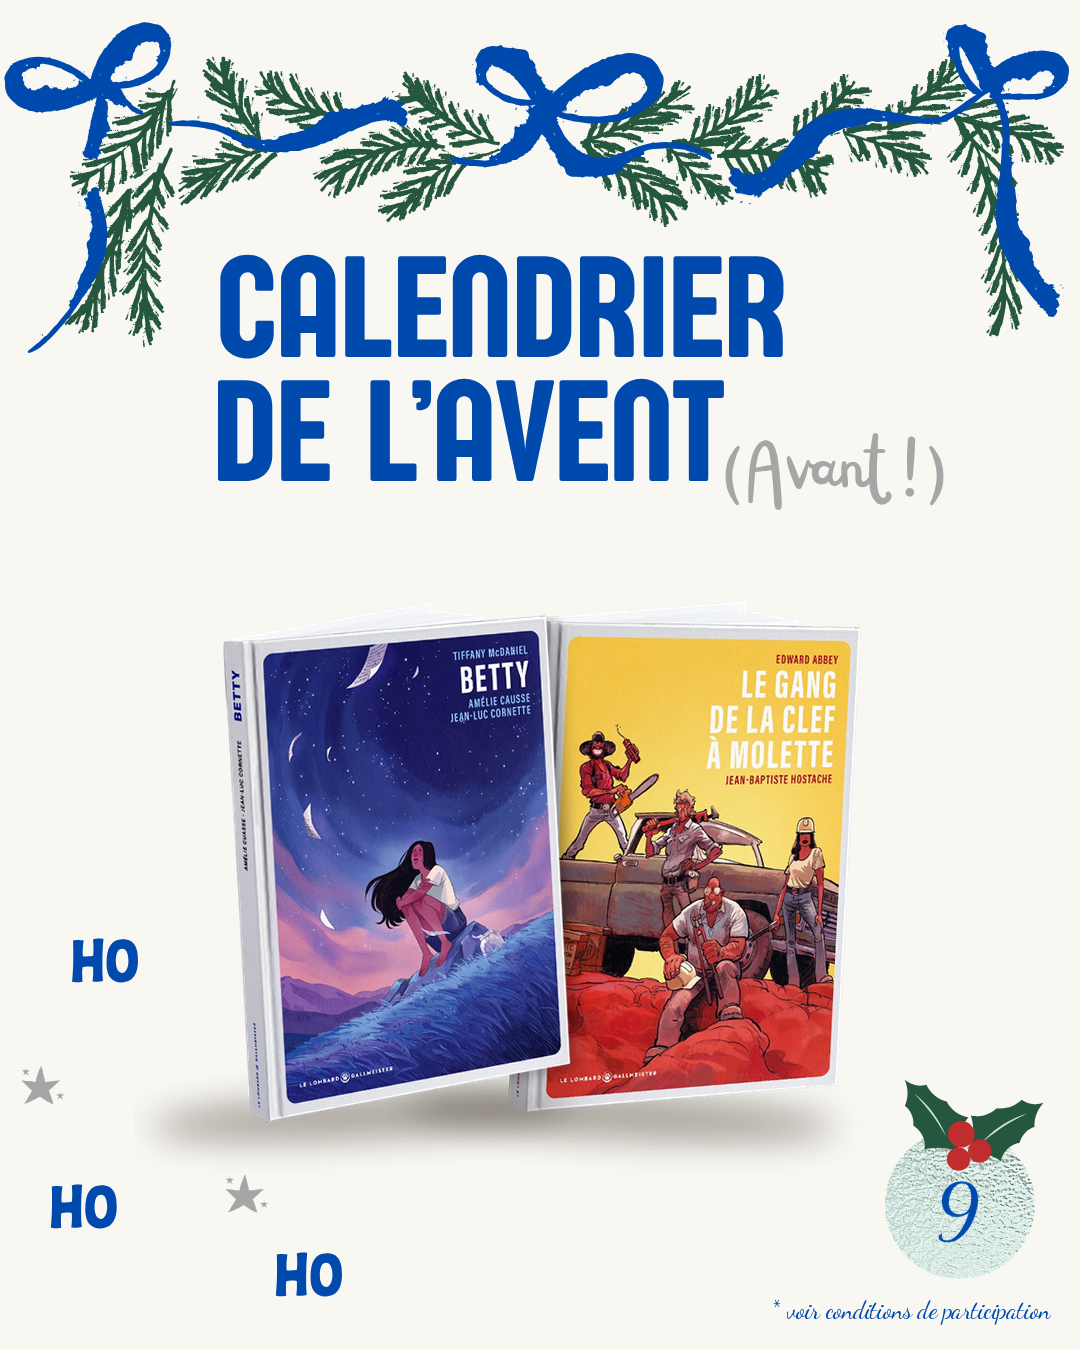
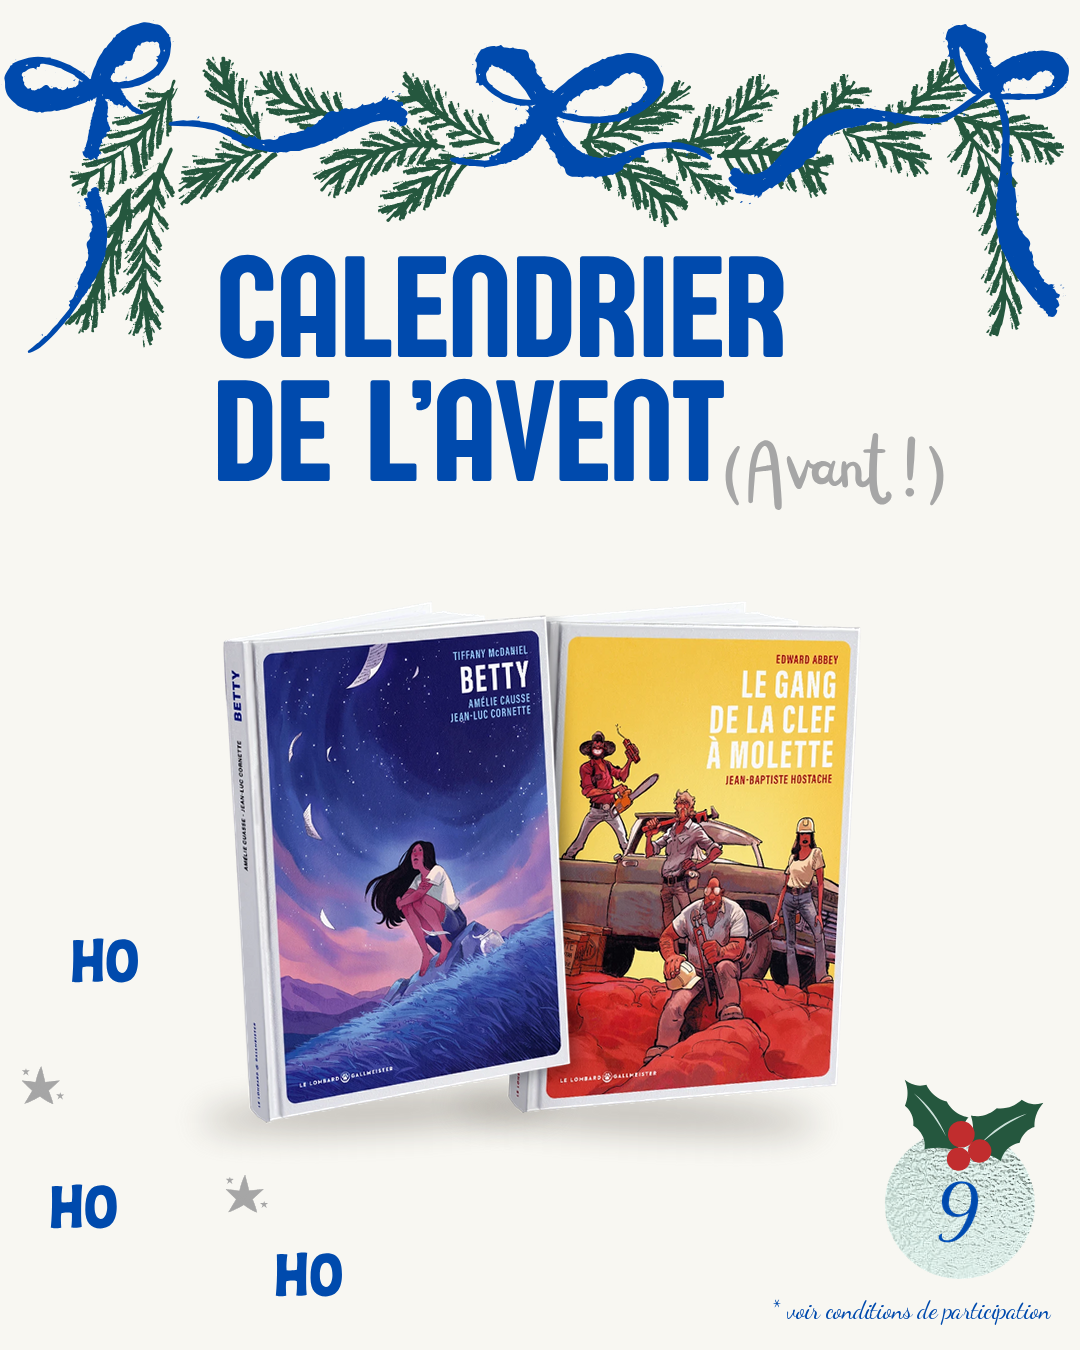
Calendrier Avant : simulation 3D fournie pour le jour 10, ombre au sol des simulations adoucie
Claude-Session: https://claude.ai/code/session_01QaZk7QZvzTVY1x8op41wve

Changed region(s): [[0.1528, 0.7778, 0.7639, 0.8711]]

diff --git a/calendrier-avent-2026/compose.py b/calendrier-avent-2026/compose.py
@@ -27,10 +27,10 @@ def prerendered(path, body_h):
     W, H = src.width + 2 * pad, src.height + pad
     canvas = Image.new('RGBA', (W, H), (0, 0, 0, 0))
     sh = Image.new('L', (W, H), 0)
-    ImageDraw.Draw(sh).ellipse((pad - src.width * .3, src.height - src.width * .07,
-                                pad + src.width * 1.0, src.height + src.width * .06), fill=255)
+    ImageDraw.Draw(sh).ellipse((pad - src.width * .15, src.height - src.width * .06,
+                                pad + src.width * .95, src.height + src.width * .03), fill=255)
     sh = sh.filter(ImageFilter.GaussianBlur(src.width * .05))
-    shadow = Image.new('RGBA', (W, H), (40, 30, 20, 0)); shadow.putalpha(sh.point(lambda v: int(v * .4)))
+    shadow = Image.new('RGBA', (W, H), (40, 30, 20, 0)); shadow.putalpha(sh.point(lambda v: int(v * .32)))
     canvas.alpha_composite(shadow)
     canvas.alpha_composite(src, (pad, 0))
     body = Image.new('L', (W, H), 0); body.paste(src.getchannel('A'), (pad, 0))

diff --git a/calendrier-avent-2026/README.md b/calendrier-avent-2026/README.md
@@ -31,7 +31,7 @@ angles -5°, -2°, +1°, +4°… (+3° par album), chaque album décalé de 40 %
 
 Deux albums (séries différentes) : -3° / +3°, celui de droite à 102 % et derrière, chevauchement 10 %, ombre portée. Un album : droit, centré, à 110 %.
 
-Simulation 3D fournie (PNG détouré dans `assets/simu3d/<ISBN>-….png`) : utilisée automatiquement à la place du mockup (jour 9 : Betty, Le Gang de la clef à molette).
+Simulation 3D fournie (PNG détouré dans `assets/simu3d/<ISBN>-….png`) : utilisée automatiquement à la place du mockup (jour 9 : Betty, Le Gang de la clef à molette ; jour 10 : Le soleil va se lever).
 
 Rendu d'un seul jour en 1080×1350 (format portrait Instagram) :
 
